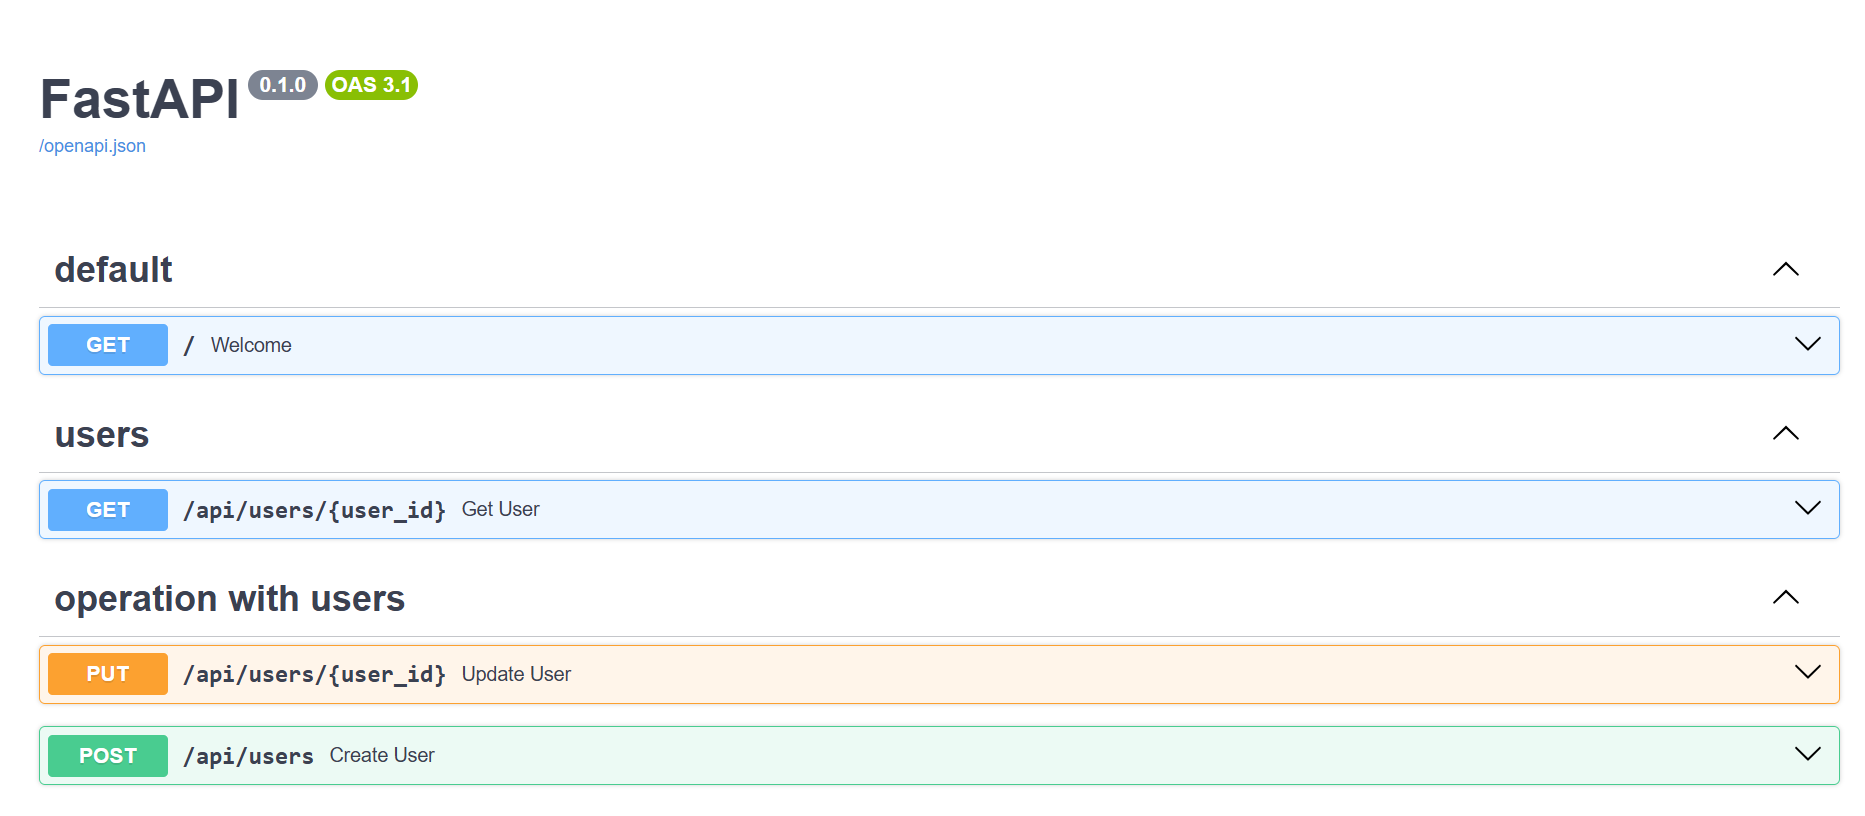
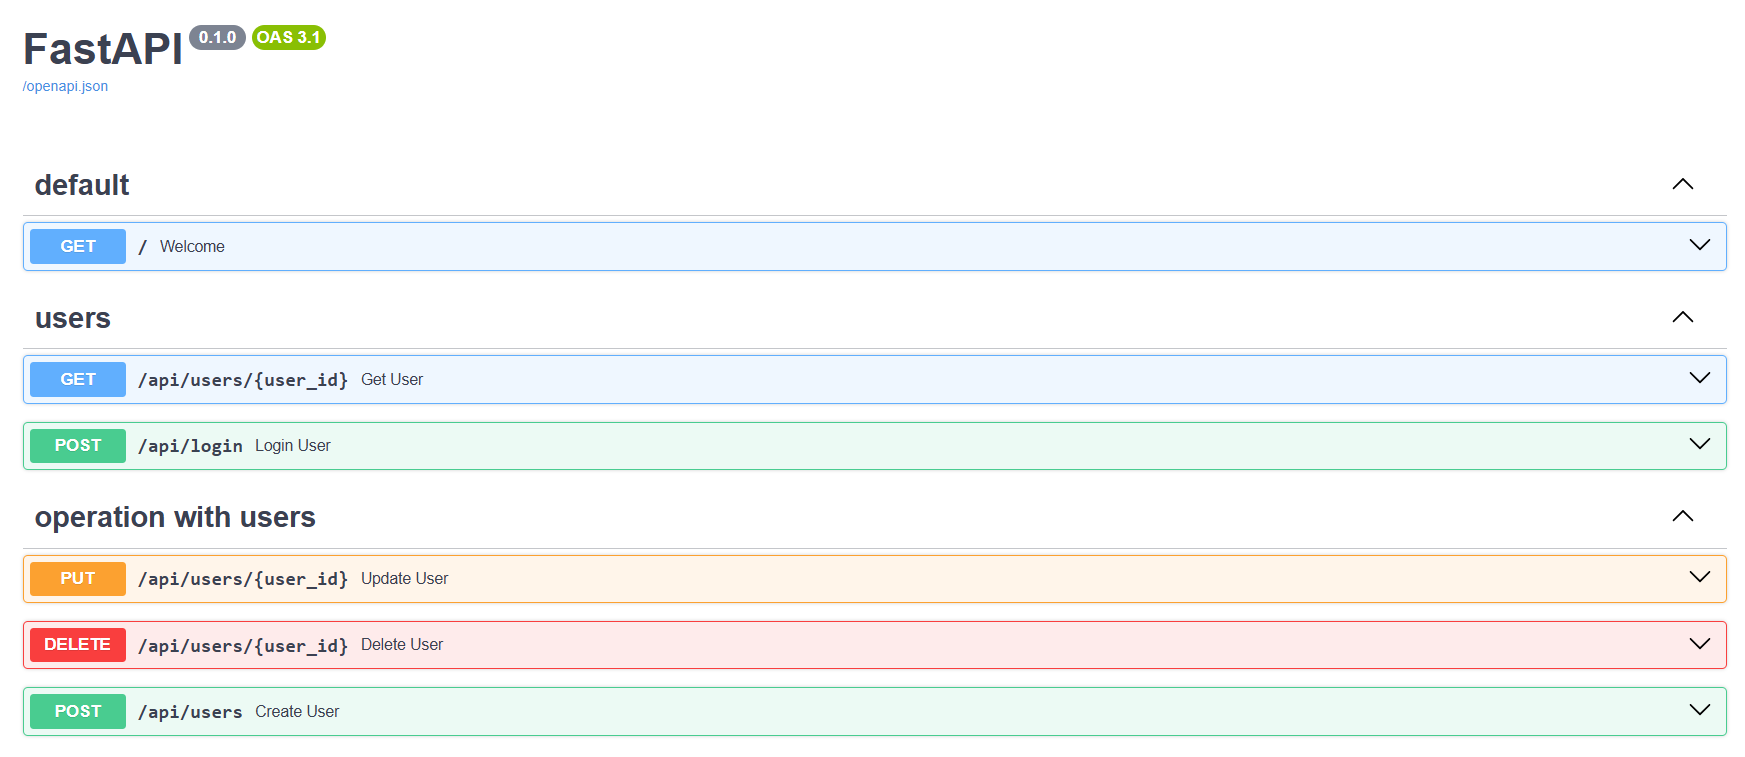
add projects updates

Changed region(s): [[0.0, 0.0304, 0.9903, 0.9723], [0.9593, 0.7292, 0.9903, 0.7596], [0.9593, 0.3038, 0.9903, 0.3342]]

diff --git a/routers/operation_with_user.py b/routers/operation_with_user.py
@@ -20,26 +20,7 @@ async def update_user(user_id: int, name: str, job: str) -> UserUpdatedData:
     date = now_data
     return UserUpdatedData(name=name, job=job, updatedAt=date)
 
-# @router.post("/users", response_model=UserCreatedData, status_code=status.HTTP_201_CREATED)
-# async def create_user(user: UserCreatedData, name: str, job: str) -> UserCreatedData:
-#     new_id = random.randint(99, 150)
-#     date = now_data
-#     return UserCreatedData(name=name, job=job, id=new_id, createdAt=date)
 
-# @router.post("/users", response_model=UserCreatedData, status_code=status.HTTP_201_CREATED)
-# async def create_user(user: UserCreatedData) -> UserCreatedData:
-#     new_id = random.randint(99, 150)
-#     date = now_data
-#     return UserCreatedData(id=new_id, createdAt=date)
-
-
-# @router.post("/users", response_model=UserUpdatedData, status_code=status.HTTP_201_CREATED)
-# async def create_user(name: str, job: str = 'QA') -> UserCreatedData:
-#     new_user = UserCreatedData(
-#         name=name,
-#         job=job,
-#         id=random.randint(99, 150),
-#         createdAt=now_data
-#     )
-#
-#     return new_user
+@router.delete("/users/{user_id}")
+def delete_user():
+    return Response(status_code=204)

diff --git a/routers/login_form.py b/routers/login_form.py
@@ -1,5 +1,7 @@
+import os
 from models.users import ResponseModel
-from fastapi import HTTPException, APIRouter
+from fastapi import HTTPException, APIRouter, Body, Response
+from models.users import User
 
 router = APIRouter(prefix='/api', tags=['users'])
 
@@ -33,3 +35,19 @@ async def get_user(user_id: int) -> ResponseModel:
         raise HTTPException(status_code=404, detail="User not found")
 
     return ResponseModel(data=user, support=support_info)
+
+
+@router.post("/login")
+def login_user(user: User = Body()):
+    users = 'eve.holt@reqres.in'
+    password = 'cityslicka'
+    if user.email != users and user.password != password:
+        return Response(status_code=400, content='Wrong email or password')
+
+    elif user.email in users:
+        return {
+            "token": "QpwL5tke4Pnpja7X4"
+        }
+    else:
+        return Response(status_code=400, content='user not found')
+

diff --git a/tests/test_operation_with_user.py b/tests/test_operation_with_user.py
@@ -6,7 +6,6 @@ def test_create_new_user():
     name = os.getenv('NEW_USER_NAME')
     job = os.getenv('NEW_USER_JOB')
     new_user = api.create_new_user(name, job)
-    print(new_user)
     status_code = new_user[1]
     assert status_code == 201
     assert new_user[0]["name"] == name
@@ -19,3 +18,10 @@ def test_update_user_info():
     status_code = new_user[1]
     assert status_code == 200
     assert new_user[0]["name"] == name
+
+
+def test_delete_user_by_id():
+    delete_user = api.delete_user()
+    status_code = delete_user[1]
+    assert delete_user[0] == 'deleted'
+    assert status_code == 204

diff --git a/tests/test_users.py b/tests/test_users.py
@@ -11,3 +11,13 @@ def test_get_single_user_info():
     assert response[0]['data']['first_name'] == os.getenv('USER_FIRST_NAME')
     assert response[0]['data']['last_name'] == os.getenv('USER_LAST_NAME')
     assert status_code == 200
+
+
+def test_login_user():
+    email = os.getenv('USER_EMAIL')
+    password = os.getenv('USER_PASSWORD')
+    login_user_info = api.login_user(email, password)
+    status_code = login_user_info[1]
+    user_token = login_user_info[0]
+    assert status_code == 200
+    assert len(user_token) > 0

diff --git a/models/users.py b/models/users.py
@@ -1,6 +1,11 @@
 from pydantic import BaseModel
 
 
+class User(BaseModel):
+    email: str
+    password: str
+
+
 class UserData(BaseModel):
     id: int
     email: str
